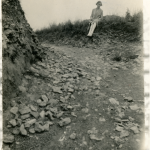
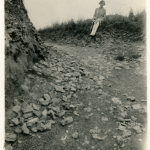
Re-scaned some images

diff --git a/gallery.html b/gallery.html
@@ -46,14 +46,14 @@
                 src="content/images/gallery/Scan_007-290x300.png"
                 data-jg-srcset="content/images/gallery/Scan_007-290x300.png 290w, content/images/gallery/Scan_007-991x1024.png 991w, content/images/gallery/Scan_007-768x794.png 768w, content/images/gallery/Scan_007.png 1424w"
                 sizes="(max-width: 290px) 100vw, 290px" /></a></figure>
-          <figure class='dgwt-jg-item' data-size='1376x1960' data-sub-html=''><a href='content/images/gallery/Scan_006.png'><img
-                src="content/images/gallery/Scan_006-211x300.png"
-                data-jg-srcset="content/images/gallery/Scan_006-211x300.png 211w, content/images/gallery/Scan_006-719x1024.png 719w, content/images/gallery/Scan_006-768x1094.png 768w, content/images/gallery/Scan_006-1078x1536.png 1078w, content/images/gallery/Scan_006.png 1376w"
-                sizes="(max-width: 211px) 100vw, 211px" /></a></figure>
-          <figure class='dgwt-jg-item' data-size='1896x1352' data-sub-html='<h4>Thames at Richmond, summer 1926</h4>'><a href='content/images/gallery/Scan_005.png'><img
-                src="content/images/gallery/Scan_005-300x214.png"
-                data-jg-srcset="content/images/gallery/Scan_005-300x214.png 300w, content/images/gallery/Scan_005-1024x730.png 1024w, content/images/gallery/Scan_005-768x548.png 768w, content/images/gallery/Scan_005-1536x1095.png 1536w, content/images/gallery/Scan_005.png 1896w"
+          <figure class='dgwt-jg-item' data-size='1842x1248' data-sub-html='<h4>Thames at Richmond, summer 1926</h4>'><a href='content/images/gallery/Scan_005.png'><img
+                src="content/images/gallery/Scan_005-300x203.png"
+                data-jg-srcset="content/images/gallery/Scan_005-300x203.png 300w, content/images/gallery/Scan_005-1024x694.png 1024w, content/images/gallery/Scan_005-768x520.png 768w, content/images/gallery/Scan_005-1536x1041.png 1536w, content/images/gallery/Scan_005.png 1842w"
                 sizes="(max-width: 300px) 100vw, 300px" /></a></figure>
+          <figure class='dgwt-jg-item' data-size='1376x1936' data-sub-html=''><a href='content/images/gallery/Scan_006.png'><img
+                src="content/images/gallery/Scan_006-213x300.png"
+                data-jg-srcset="content/images/gallery/Scan_006-213x300.png 213w, content/images/gallery/Scan_006-728x1024.png 728w, content/images/gallery/Scan_006-768x1081.png 768w, content/images/gallery/Scan_006-1092x1536.png 1092w, content/images/gallery/Scan_006.png 1376w"
+                sizes="(max-width: 213px) 100vw, 213px" /></a></figure>
           <figure class='dgwt-jg-item' data-size='2055x3207' data-sub-html=''><a href='content/images/gallery/Scan_001.png'><img
                 src="content/images/gallery/Scan_001-192x300.png"
                 data-jg-srcset="content/images/gallery/Scan_001-192x300.png 192w, content/images/gallery/Scan_001-656x1024.png 656w, content/images/gallery/Scan_001-768x1199.png 768w, content/images/gallery/Scan_001-984x1536.png 984w, content/images/gallery/Scan_001-1312x2048.png 1312w"
